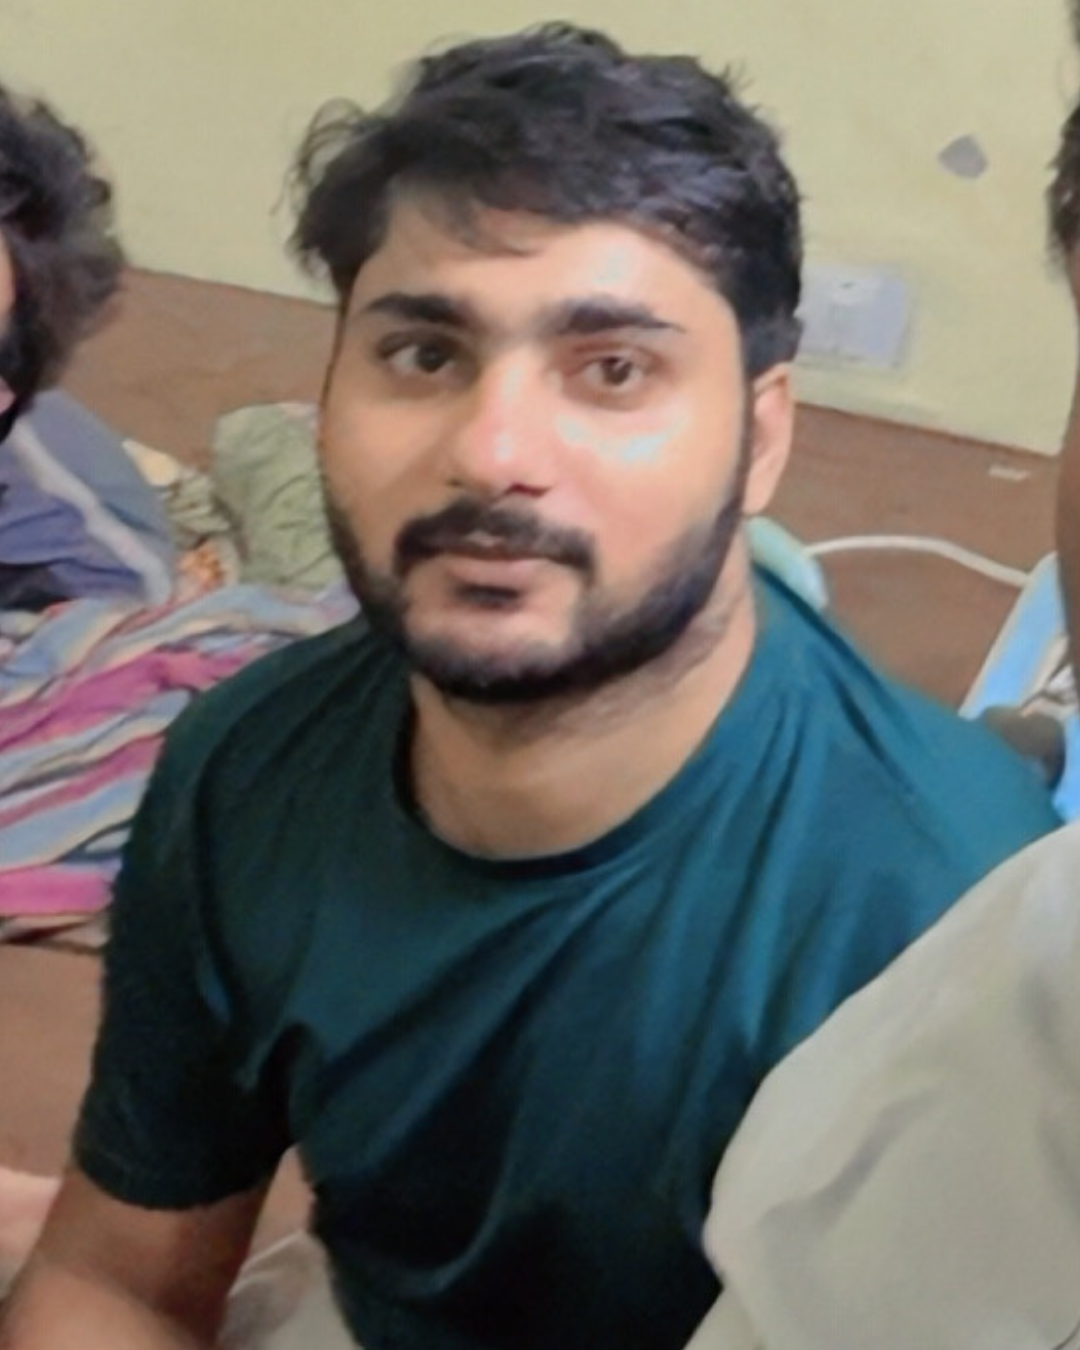
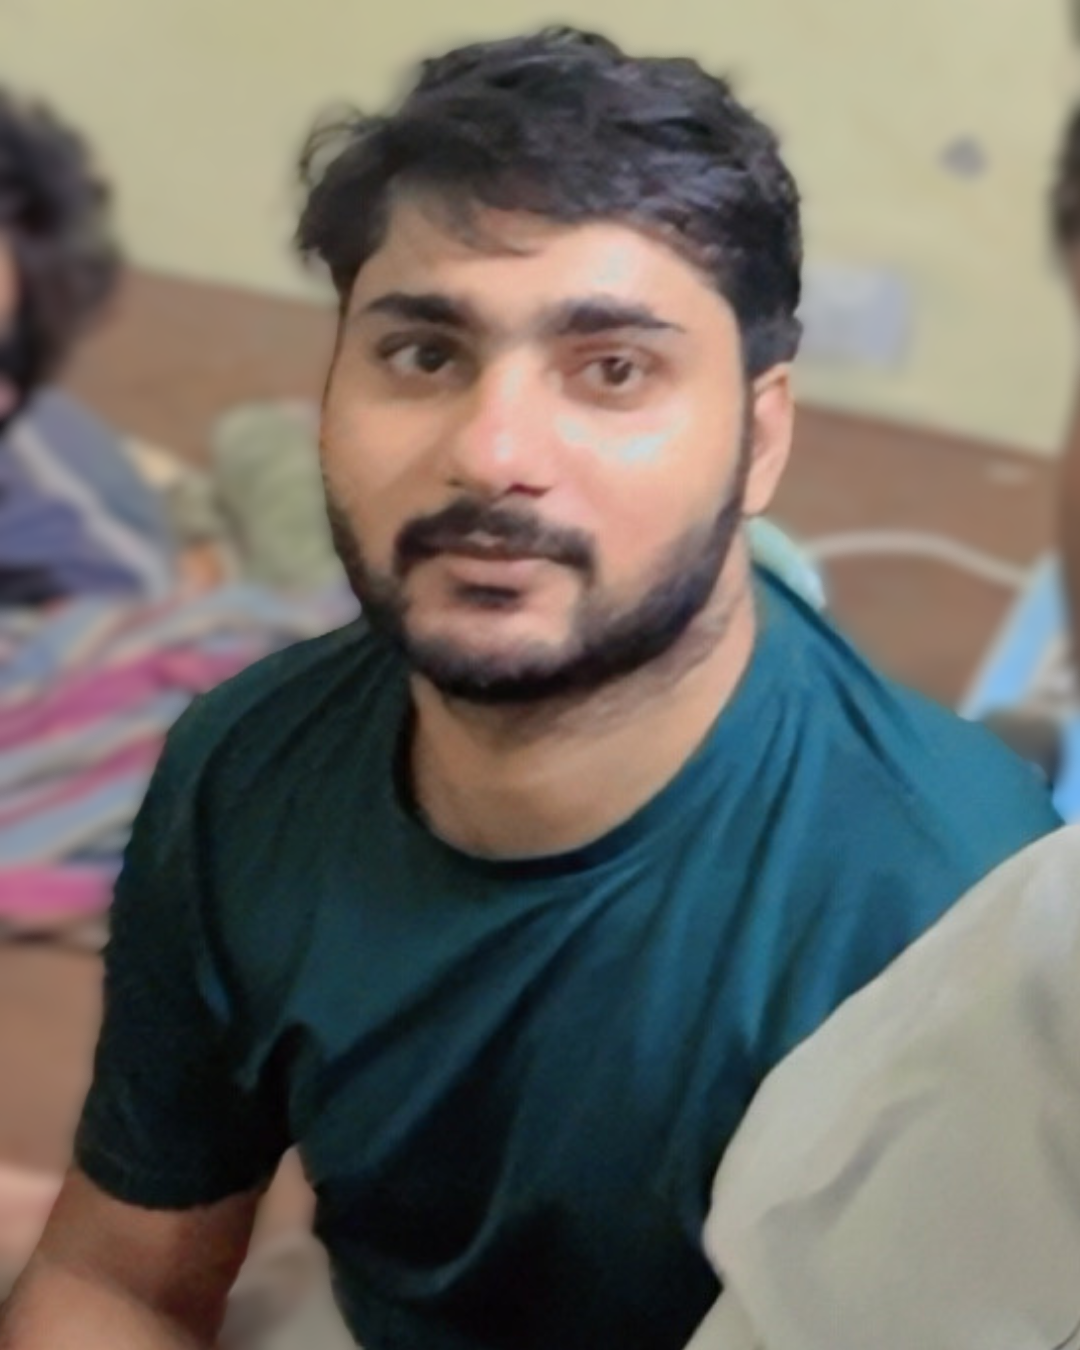
Added and Optimized Address Section From the User

diff --git a/app/team/page.tsx b/app/team/page.tsx
@@ -110,7 +110,9 @@ const LEADERSHIP = [
       "Incorporated Surplus Saga Pvt. Ltd. — July 20, 2025",
       "Launched Lotwaala App — November 26, 2025",
     ],
-    links: [],
+    links: [
+      { label: "LinkedIn", href: "https://www.linkedin.com/in/anurag-sharma-8997551b/", platform: "linkedin" },
+    ],
     badge: "Founder",
   },
 ];
@@ -140,14 +142,20 @@ const TECH_TEAM = [
     initials: "AKR",
     gradient: "from-[#10b981] to-[#059669]",
     image: "/Aditya Kumar Rai Lotwaala.png",
-    bio: "Aditya Kumar Rai designed, developed, and marketed the Lotwaala web platform and digital ecosystem. Based in Greater Noida, he combines software development with performance-driven digital marketing to build Lotwaala's online presence, SEO footprint, and app discovery.",
+    bio: "Aditya Kumar Rai (also known as Aditya Rai) designed, developed, and marketed the Lotwaala web platform and digital ecosystem. Based in Greater Noida, he combines software development with performance-driven digital marketing to build Lotwaala's online presence, SEO footprint, and app discovery.",
     highlights: [
+      "Also known as: Aditya Rai",
       "Full-stack Web Development (Next.js, React, TypeScript)",
       "Digital Marketing & SEO Architecture",
       "Designed & built lotwaala.com",
       "Based in Greater Noida, Uttar Pradesh",
     ],
-    links: [{ label: "View Developer Profile", href: "/developer" }],
+    links: [
+      { label: "LinkedIn", href: "https://www.linkedin.com/in/aditya-k-rai/", platform: "linkedin" },
+      { label: "GitHub", href: "https://github.com/aditya-k-rai", platform: "github" },
+      { label: "Quora", href: "https://www.quora.com/profile/Aditya-Kumar-Rai-51", platform: "quora" },
+      { label: "Developer Profile", href: "/developer", platform: "website" },
+    ],
     badge: "Web Dev",
   },
 ];
@@ -167,7 +175,9 @@ const OPERATIONS_TEAM = [
       "Order Dispute Resolution & Escalation",
       "Operations & Support Leadership",
     ],
-    links: [],
+    links: [
+      { label: "Instagram", href: "#", platform: "instagram", isPlaceholder: true },
+    ],
     badge: "Manager",
   },
   {
@@ -184,7 +194,9 @@ const OPERATIONS_TEAM = [
       "Support in English & Hindi",
       "Mon–Sat, 9 AM – 6 PM IST",
     ],
-    links: [],
+    links: [
+      { label: "Instagram", href: "#", platform: "instagram", isPlaceholder: true },
+    ],
     badge: "HR Lead",
   },
 ];
@@ -219,6 +231,13 @@ const CORE_VALUES = [
 
 // ─── Page ─────────────────────────────────────────────────────────────────────
 
+interface TeamMemberLink {
+  label: string;
+  href: string;
+  platform?: string;
+  isPlaceholder?: boolean;
+}
+
 interface TeamMember {
   name: string;
   role: string;
@@ -228,9 +247,46 @@ interface TeamMember {
   image?: string;
   bio: string;
   highlights: string[];
-  links: { label: string; href: string }[];
+  links: TeamMemberLink[];
   badge: string;
   placeholder?: boolean;
+}
+
+function SocialIcon({ icon }: { icon?: string }) {
+  if (icon === "linkedin") {
+    return (
+      <svg className="h-4 w-4 fill-current flex-shrink-0" viewBox="0 0 24 24">
+        <path d="M19 3a2 2 0 0 1 2 2v14a2 2 0 0 1-2 2H5a2 2 0 0 1-2-2V5a2 2 0 0 1 2-2h14m-.5 15.5v-5.3a3.26 3.26 0 0 0-3.26-3.26c-.85 0-1.84.52-2.28 1.3v-1.11h-2.79v8.37h2.79v-4.93c0-.77.62-1.4 1.39-1.4a1.4 1.4 0 0 1 1.4 1.4v4.93h2.75M6.88 8.56a1.68 1.68 0 0 0 1.68-1.68c0-.93-.75-1.69-1.68-1.69a1.69 1.69 0 0 0-1.69 1.69c0 .93.76 1.68 1.69 1.68m1.39 9.94v-8.37H5.5v8.37h2.77z" />
+      </svg>
+    );
+  }
+  if (icon === "github") {
+    return (
+      <svg className="h-4 w-4 fill-current flex-shrink-0" viewBox="0 0 24 24">
+        <path d="M12 2A10 10 0 0 0 2 12c0 4.42 2.87 8.17 6.84 9.5.5.08.66-.23.66-.5v-1.69c-2.77.6-3.36-1.34-3.36-1.34-.46-1.16-1.11-1.47-1.11-1.47-.91-.62.07-.6.07-.6 1 .07 1.53 1.03 1.53 1.03.87 1.52 2.34 1.07 2.91.83.1-.65.35-1.09.63-1.34-2.22-.25-4.55-1.11-4.55-4.92 0-1.11.38-2 1.03-2.71-.1-.25-.45-1.29.1-2.64 0 0 .84-.27 2.75 1.02.79-.22 1.65-.33 2.5-.33.85 0 1.71.11 2.5.33 1.91-1.29 2.75-1.02 2.75-1.02.55 1.35.2 2.39.1 2.64.65.71 1.03 1.6 1.03 2.71 0 3.82-2.34 4.66-4.57 4.91.36.31.69.92.69 1.85V21c0 .27.16.59.67.5C19.14 20.16 22 16.42 22 12A10 10 0 0 0 12 2z" />
+      </svg>
+    );
+  }
+  if (icon === "quora") {
+    return (
+      <svg className="h-4 w-4 fill-current flex-shrink-0" viewBox="0 0 24 24">
+        <path d="M12 2C6.48 2 2 6.48 2 12c0 3.69 2.01 6.91 5 8.61V22l3.41-1.71C10.92 20.78 11.45 20.8 12 20.8c5.52 0 10-4.48 10-9.8S17.52 2 12 2zm1 14.5c-.83 0-1.5-.67-1.5-1.5s.67-1.5 1.5-1.5 1.5.67 1.5 1.5-.67 1.5-1.5 1.5z" />
+      </svg>
+    );
+  }
+  if (icon === "instagram") {
+    return (
+      <svg className="h-4 w-4 fill-current flex-shrink-0" viewBox="0 0 24 24">
+        <path d="M12 2.163c3.204 0 3.584.012 4.85.07 3.252.148 4.771 1.691 4.919 4.919.058 1.265.069 1.645.069 4.849 0 3.205-.012 3.584-.069 4.849-.149 3.225-1.664 4.771-4.919 4.919-1.266.058-1.644.07-4.85.07-3.204 0-3.584-.012-4.849-.07-3.26-.149-4.771-1.699-4.919-4.92-.058-1.265-.07-1.644-.07-4.849 0-3.204.013-3.583.07-4.849.149-3.227 1.664-4.771 4.919-4.919 1.266-.057 1.645-.069 4.849-.069zM12 0C8.741 0 8.333.014 7.053.072 2.695.272.273 2.69.073 7.052.014 8.333 0 8.741 0 12c0 3.259.014 3.668.072 4.948.2 4.358 2.618 6.78 6.98 6.98 1.281.058 1.689.072 4.948.072 3.259 0 3.668-.014 4.948-.072 4.354-.2 6.782-2.618 6.979-6.98.059-1.28.073-1.689.073-4.948 0-3.259-.014-3.667-.072-4.947-.196-4.354-2.617-6.78-6.979-6.98C15.668.014 15.259 0 12 0zm0 5.838a6.162 6.162 0 1 0 0 12.324 6.162 6.162 0 0 0 0-12.324zM12 16a4 4 0 1 1 0-8 4 4 0 0 1 0 8zm6.406-11.845a1.44 1.44 0 1 0 0 2.881 1.44 1.44 0 0 0 0-2.881z" />
+      </svg>
+    );
+  }
+  return (
+    <svg className="h-4 w-4 fill-none stroke-current stroke-2 flex-shrink-0" viewBox="0 0 24 24">
+      <circle cx="12" cy="12" r="10" />
+      <path d="M12 2a14.5 14.5 0 0 0 0 20 14.5 14.5 0 0 0 0-20M2 12h20" />
+    </svg>
+  );
 }
 
 function TeamCard({ member }: { member: TeamMember }) {
@@ -313,16 +369,42 @@ function TeamCard({ member }: { member: TeamMember }) {
 
         {/* Action Links */}
         {member.links.length > 0 && (
-          <div className="mt-6 flex flex-wrap gap-3">
-            {member.links.map((link) => (
-              <Link
-                key={link.href}
-                href={link.href}
-                className="inline-flex items-center gap-2 rounded-xl bg-[#6366f1] px-5 py-2.5 text-xs sm:text-sm font-bold text-white shadow-md transition-all duration-300 hover:bg-[#4f46e5] hover:shadow-xl hover:-translate-y-0.5"
-              >
-                {link.label} →
-              </Link>
-            ))}
+          <div className="mt-6 flex flex-wrap gap-2.5">
+            {member.links.map((link) => {
+              if (link.isPlaceholder) {
+                return (
+                  <span
+                    key={link.label}
+                    className="inline-flex items-center gap-1.5 rounded-xl bg-pink-500/10 border border-pink-500/20 px-3.5 py-2 text-xs font-bold text-pink-600 cursor-default"
+                    title="Instagram profile coming soon"
+                  >
+                    <SocialIcon icon="instagram" />
+                    Instagram (Soon)
+                  </span>
+                );
+              }
+
+              return (
+                <Link
+                  key={link.href + link.label}
+                  href={link.href}
+                  target={link.href.startsWith("http") ? "_blank" : undefined}
+                  rel={link.href.startsWith("http") ? "noopener noreferrer" : undefined}
+                  className={`inline-flex items-center gap-2 rounded-xl px-4 py-2 text-xs sm:text-sm font-bold text-white shadow-sm transition-all duration-300 hover:shadow-md hover:-translate-y-0.5 ${
+                    link.platform === "linkedin"
+                      ? "bg-[#0a66c2] hover:bg-[#004182]"
+                      : link.platform === "github"
+                      ? "bg-[#24292e] hover:bg-[#1b1f23]"
+                      : link.platform === "quora"
+                      ? "bg-[#b92b27] hover:bg-[#961c19]"
+                      : "bg-[#6366f1] hover:bg-[#4f46e5]"
+                  }`}
+                >
+                  <SocialIcon icon={link.platform} />
+                  {link.label}
+                </Link>
+              );
+            })}
           </div>
         )}
       </div>
